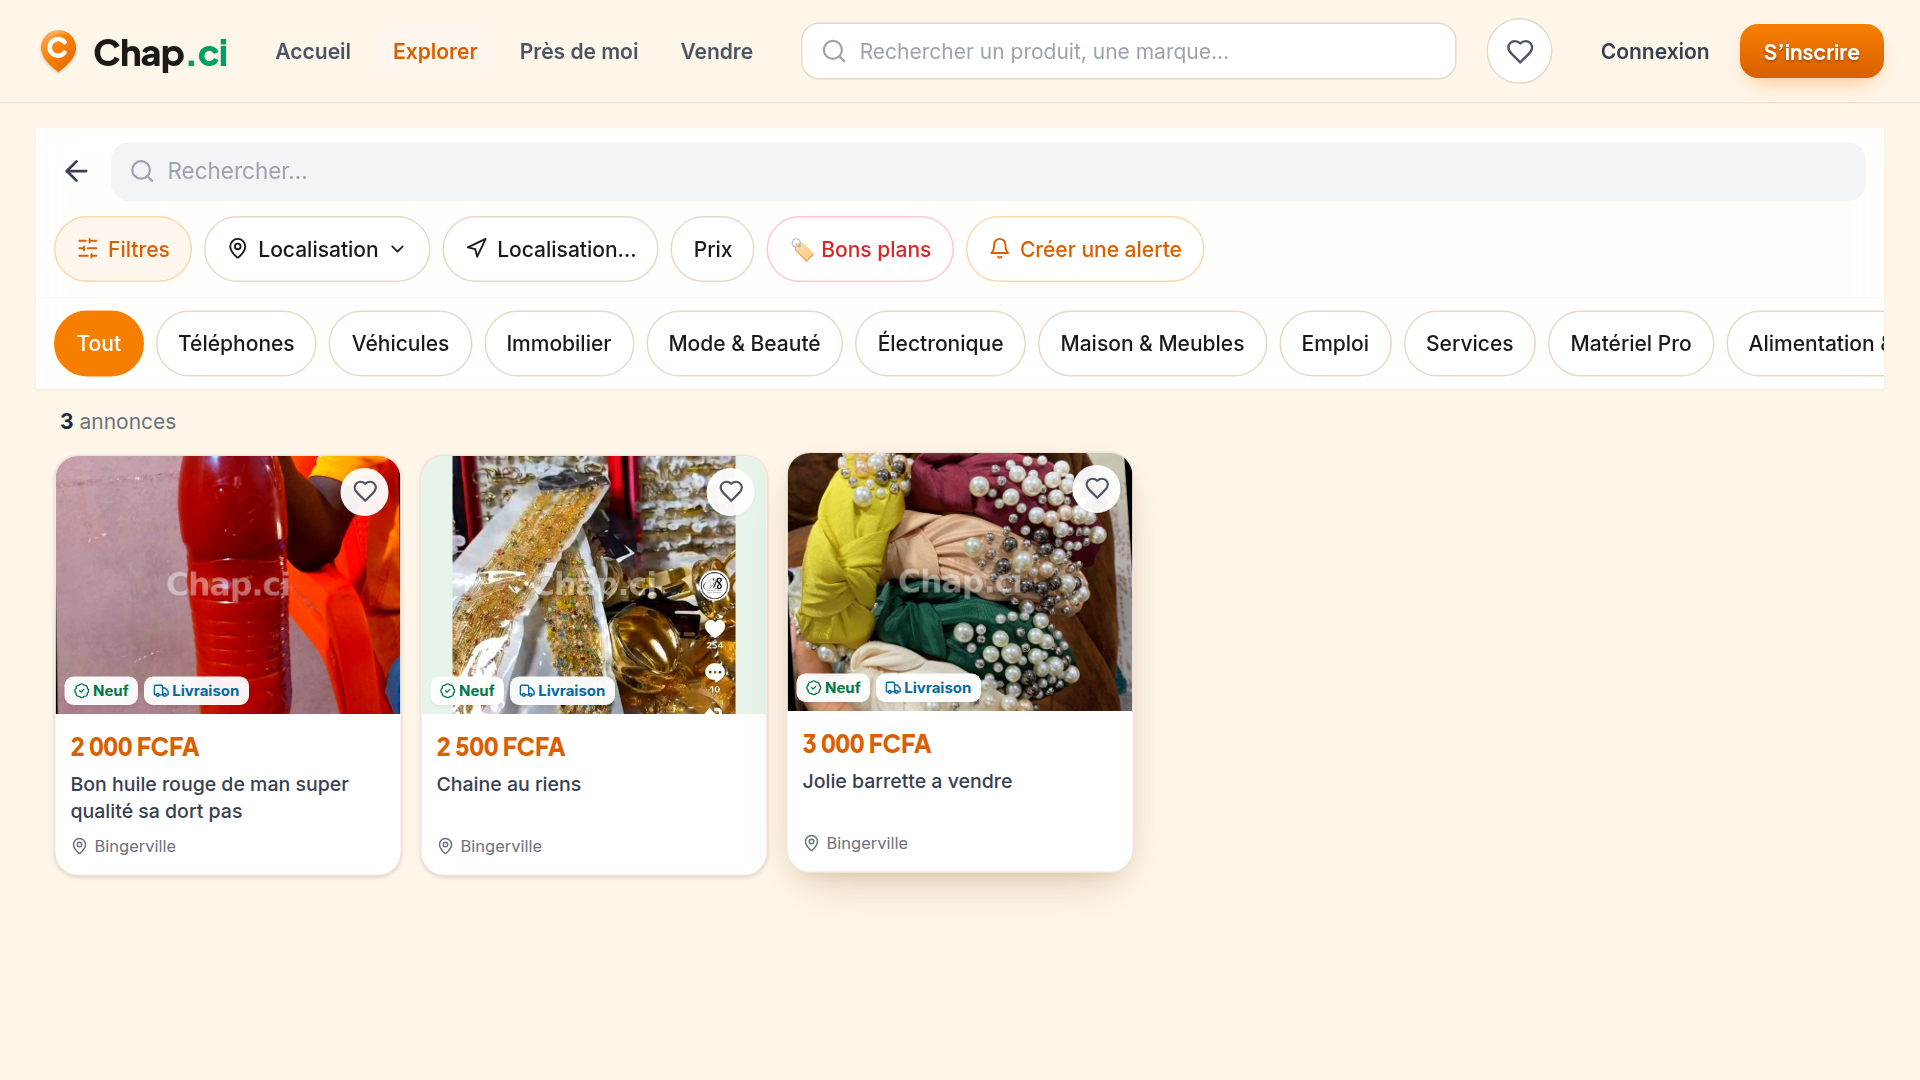
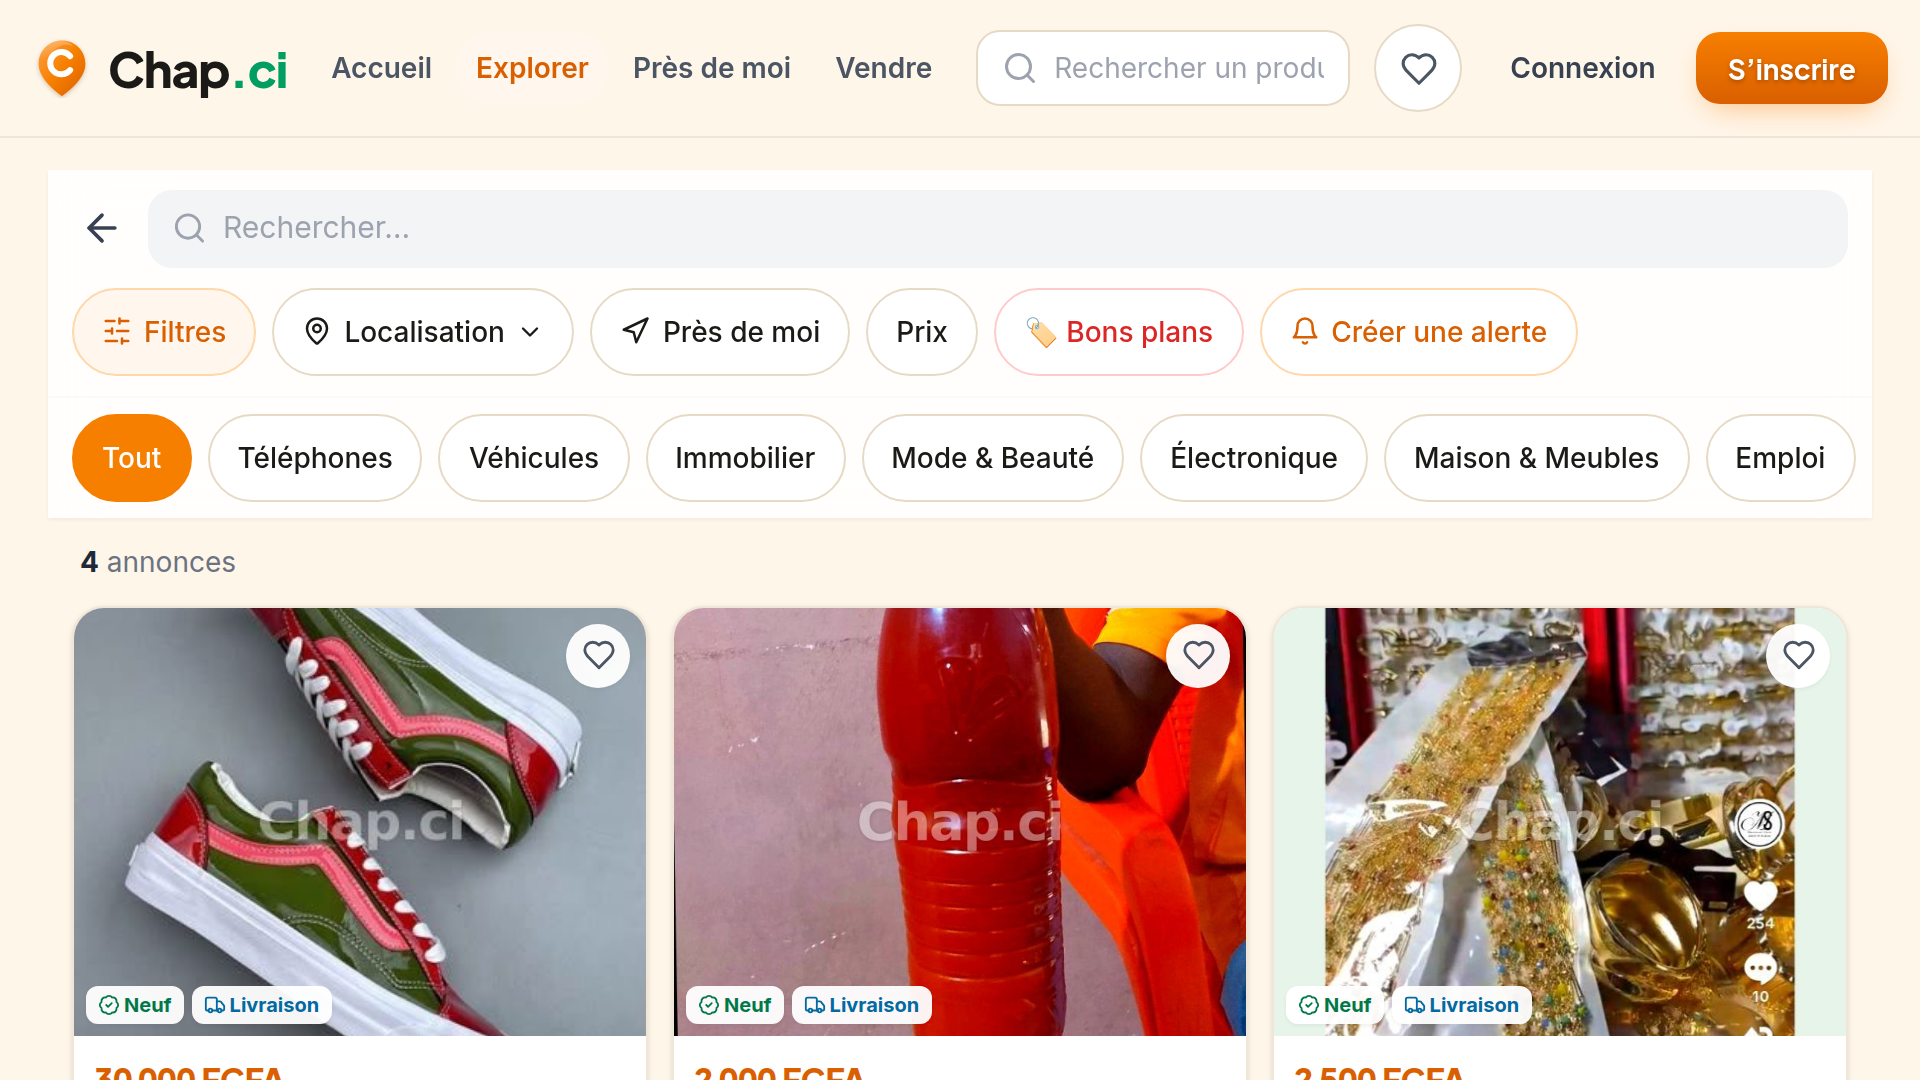
bureaux: trois corrections apres la ronde du Crieur, et la capture explorer
1. « inconnu » n'est pas « anonyme ». Le Crieur lit « /publier : 139 vues, dont
   133 inconnues » et en conclut que le mur est la creation de compte, puis
   transmet cette deduction a deux autres bureaux. Les 133 sont des lignes
   ecrites AVANT le drapeau authed du 26/07 : elles sont muettes, pas negatives.
   Preuve : ce chiffre valait deja 133 le 27/07 et n'a pas bouge — c'est un
   stock fige. L'echantillon reellement mesure est de SIX vues. Le prompt du
   bureau explique desormais les trois colonnes et impose un seuil de 30 vues
   avant toute deduction. C'est la deuxieme fois que cette faute circule.

2. STORE-LISTING.txt n'etait pas en erreur. Le Crieur voulait y corriger « 3
   annonces » en « 4 » : ce fichier decrit CE QUE MONTRENT LES CAPTURES, et la
   capture montrait bien 3. Sa correction aurait introduit le mensonge qu'elle
   pretendait retirer. Le vrai defaut etait la peremption de la capture : elle
   est refaite (4 annonces, 2 communes, grille pleine) et le texte suit.

3. J'avais moi-meme ecrit ce matin « 2 testeurs sur les 12 requis ». Deux
   adresses recues ne sont pas deux testeurs inscrits — je lui avais dit
   moi-meme que seule la Play Console peut les inscrire. Le dernier chiffre
   verifie reste « 0 testeur » (tableau de bord du 27/07).

Point releve et non classe « neutre » : Cloudflare a insere dans robots.txt un
bloc gere qui interdit GPTBot, ClaudeBot, Google-Extended et consorts. Le
[…]

diff --git a/.claude/bureaux/JOURNAL.md b/.claude/bureaux/JOURNAL.md
@@ -847,7 +847,60 @@ compte » est et reste un pointage manuel. Un bureau qui écrirait le contraire 
 tromperait.
 
 ### Problèmes ouverts (inchangés)
-- **2 testeurs sur les 12 requis** (P1) · canal de test fermé toujours pas créé
+- **Testeurs : nombre INCONNU depuis le dépôt** (P1) · canal de test fermé toujours
+  pas créé. Correction de ma propre écriture du matin, qui annonçait « 2 testeurs » :
+  le Patron m'avait transmis deux adresses, mais je lui avais moi-même dit que je ne
+  pouvais pas les inscrire — seule la Play Console le peut. Deux adresses reçues ne
+  sont pas deux testeurs inscrits. Le dernier chiffre VÉRIFIÉ est celui du tableau de
+  bord Play collé le 27/07 : « 0 testeur actuellement inscrit ». Aucun bureau ne peut
+  lire la Play Console : le seul énoncé honnête est « à vérifier par le Patron ».
 - **mentions légales incomplètes** (P1, arbitrage du Patron) · **ARTCI** (P1)
 - Catalogue : 3 annonces, 1 vendeur, 1 commune — le vrai goulot, et il ne bouge
   pas.
+
+---
+
+### 2026-07-28 13:30 — [Croissance] 📣 Le Crieur, ronde traitée
+
+**Vérifié et confirmé.** Catalogue : 4 annonces (contre 3 depuis trois rondes),
+2 vendeurs (« Grâce colombe », « Flan sahi »), 2 communes (Bingerville + **Cocody**,
+première annonce hors Bingerville), 2 catégories. Sitemap : 350 URL. robots.txt :
+`Allow: /` + `Sitemap:` présents. Le premier mouvement du catalogue depuis le 23/07.
+
+**Trois corrections.**
+
+1. **`inconnu` ≠ « anonyme ».** Le Crieur lit « /publier : 139 vues → 1 connecté,
+   5 visiteurs, 133 inconnus » et conclut que « l'écrasante majorité des vues sont
+   anonymes — le mur est la création de compte », puis transmet cette déduction aux
+   bureaux Support et Données. C'est la faute déjà corrigée le 27/07. Les 133
+   « inconnu » sont des lignes écrites **avant** le drapeau `authed` (26/07 au soir) :
+   elles ne sont pas anonymes, elles sont **muettes**. Preuve arithmétique : ce chiffre
+   valait déjà 133 le 27/07 et n'a pas bougé — c'est un stock figé, pas un flux.
+   L'échantillon réellement mesuré est **6 vues** (1 + 5). On ne conclut rien sur un
+   mur avec six observations. Prompt du bureau corrigé : lecture des trois colonnes,
+   seuil de 30 vues avant toute déduction.
+
+2. **`STORE-LISTING.txt` n'était pas en erreur.** Le Crieur propose de corriger
+   « l'explorateur affiche 3 annonces » en 4. Or ce fichier décrit **ce que montrent
+   les captures**, pas l'état du catalogue — et la capture montrait bien 3. Sa
+   correction aurait introduit le mensonge qu'elle prétendait retirer. Le vrai défaut
+   était ailleurs : la capture était périmée. Elle a été refaite (4 annonces, 2
+   communes, grille pleine), et le texte suit.
+
+3. **Comparaison de prix bancale.** « 30 000 F contre 15 000–18 000 F sur Jiji et
+   CoinAfrique » : les quatre annonces de Chap.ci sont déclarées **neuves**, et le
+   rapport ne dit pas l'état des annonces comparées. Un modèle neuf plus cher qu'un
+   modèle d'occasion n'est pas une anomalie. À reprendre à état égal, ou à ne pas
+   énoncer.
+
+**Point d'infrastructure à ne pas classer « neutre ».** Cloudflare a inséré un bloc
+géré dans `robots.txt` : `Content-Signal: search=yes,ai-train=no,use=reference`, plus
+un `Disallow: /` pour GPTBot, ClaudeBot, Google-Extended, CCBot, Bytespider,
+meta-externalagent, Amazonbot et Applebot-Extended. Le référencement Google classique
+n'est pas touché — mais **Chap.ci est désormais absent des réponses des assistants
+IA**, y compris des aperçus IA de Google (c'est ce que gouverne `Google-Extended`).
+Pour une place de marché qui cherche à être trouvée, c'est un arbitrage de croissance,
+pas un détail d'hébergement. **Décision à prendre par le Patron**, dans les deux sens.
+
+**Idée retenue :** viser « huile rouge bio Bingerville » plutôt que « Vans Cocody »,
+déjà tenu par Jiji et CoinAfrique. Longue traîne locale, sans concurrent direct connu.

diff --git a/.claude/bureaux/routine-croissance.md b/.claude/bureaux/routine-croissance.md
@@ -115,6 +115,25 @@ MÉTHODE DE TEST (obligatoire — évite les fausses alertes) :
    → visites, pages vues, ratio visites → nouvelles annonces (conversion
      visiteur→vendeur). Signale ce ratio à chaque ronde.
 
+   ⚠ LIRE `topPages` SANS SE TROMPER — trois colonnes, pas deux.
+   Chaque page est ventilée en `connectes` / `visiteurs` / `inconnu`.
+     connectes  = vue mesurée, la personne était connectée
+     visiteurs  = vue mesurée, la personne n'était PAS connectée
+     inconnu    = vue NON MESURÉE — la ligne est antérieure au drapeau `authed`,
+                  déployé le 26/07/2026 au soir.
+   « inconnu » ne veut PAS dire « anonyme ». Ces lignes ne disent rien du tout :
+   elles sont muettes, pas négatives. Les compter comme des visiteurs non
+   connectés est une faute de lecture — elle a déjà été commise deux fois, les
+   27 et 28/07, et a fait conclure à un « mur de la création de compte » qui
+   n'était appuyé sur AUCUNE mesure.
+   Le stock d'« inconnu » est FIGÉ : il ne bougera plus jamais, puisqu'il
+   compte des lignes écrites avant le drapeau. S'il ne change pas d'une ronde à
+   l'autre, ce n'est pas un signal — c'est la preuve que tu regardes un vestige.
+   Règle : ne raisonne QUE sur `connectes + visiteurs`, annonce cette somme
+   comme ton échantillon réel, et si elle est inférieure à 30 vues, écris
+   explicitement « échantillon insuffisant, aucune conclusion » — n'en tire
+   aucune déduction et n'en transmets aucune aux autres bureaux.
+
 3) MOTS-CLÉS depuis les VRAIES annonces (skill seo-ivoirien)
    - Croise : catégorie + commune (« canapé Angré »), marque + modèle (titres
      réels), intention + prix (« moins de 50 000 FCFA »), variantes ivoiriennes
